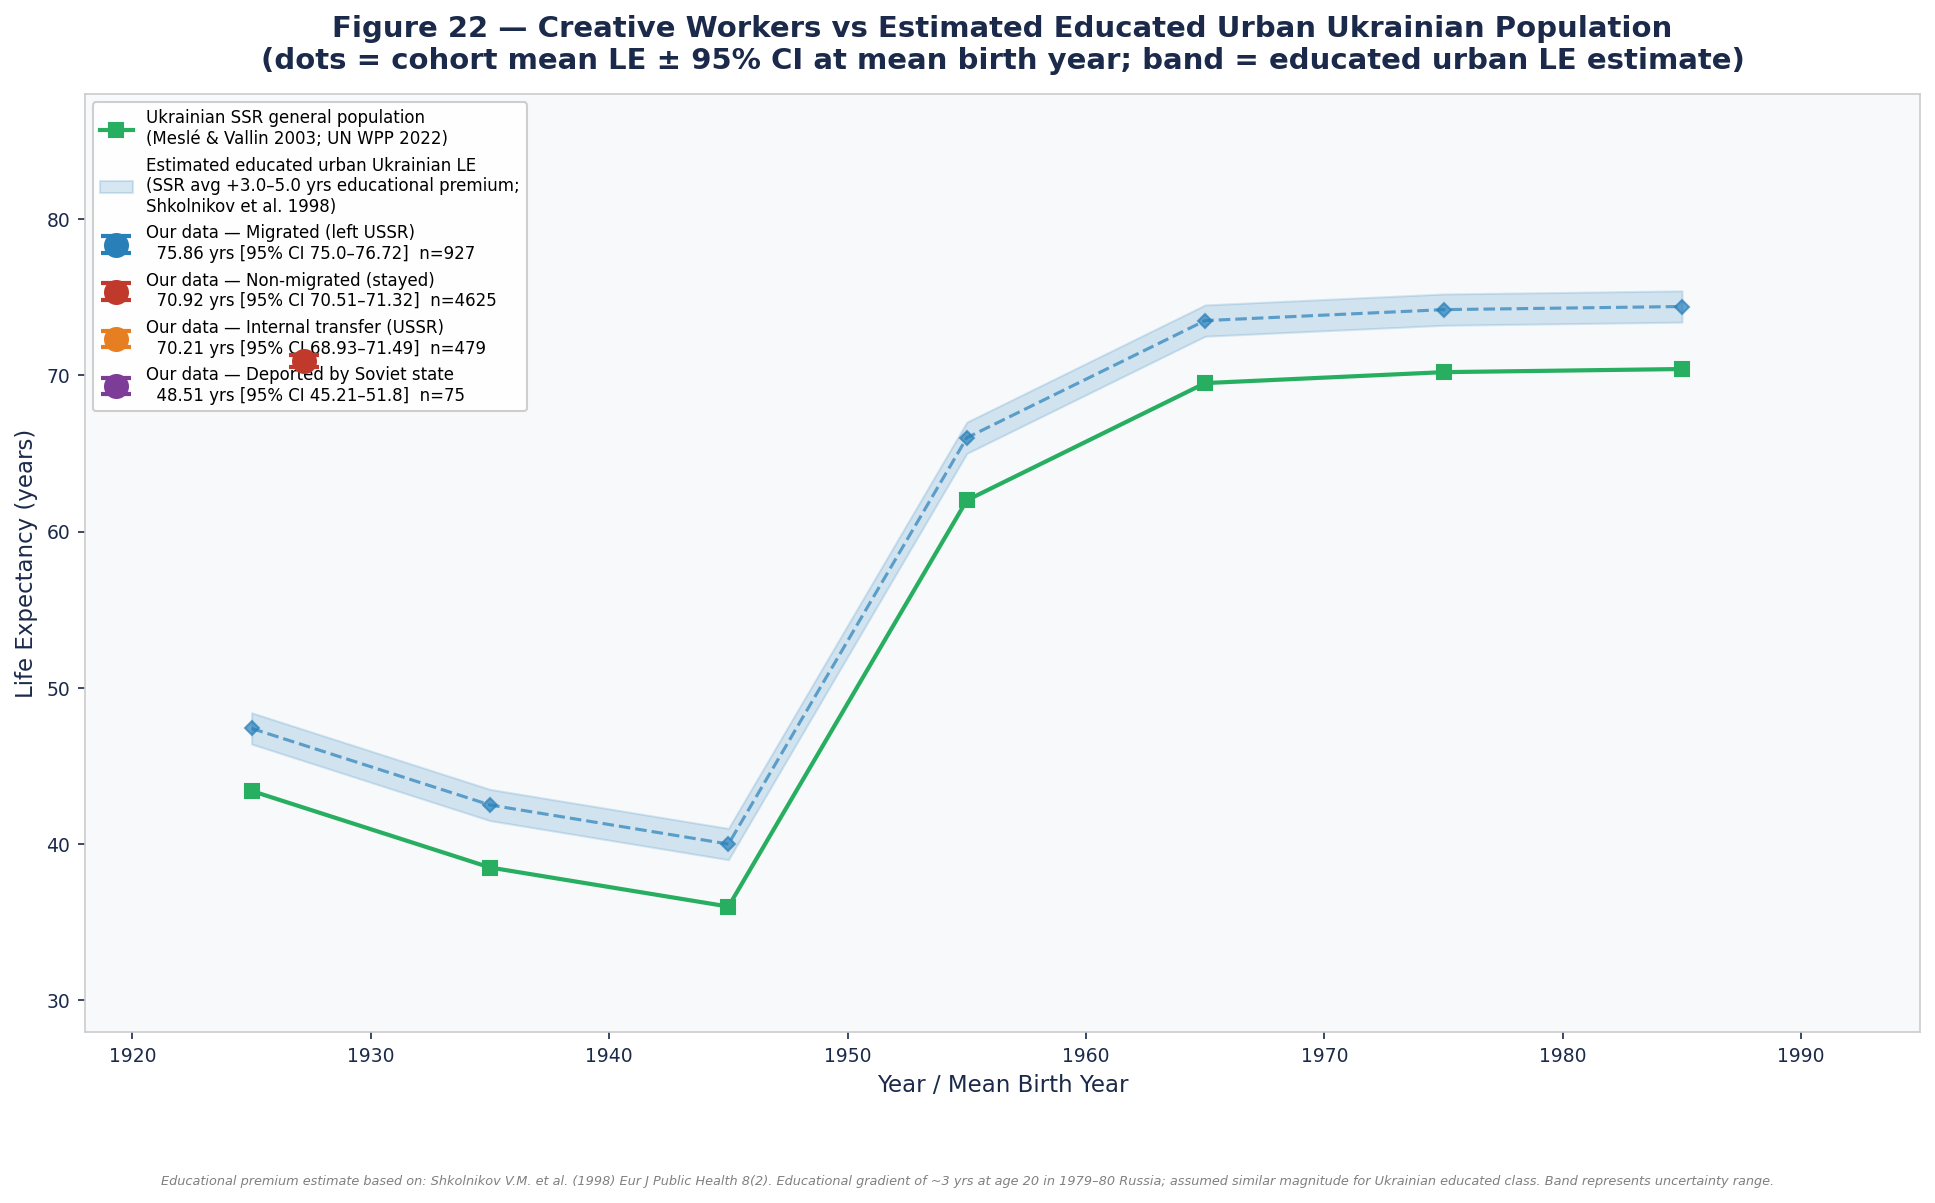
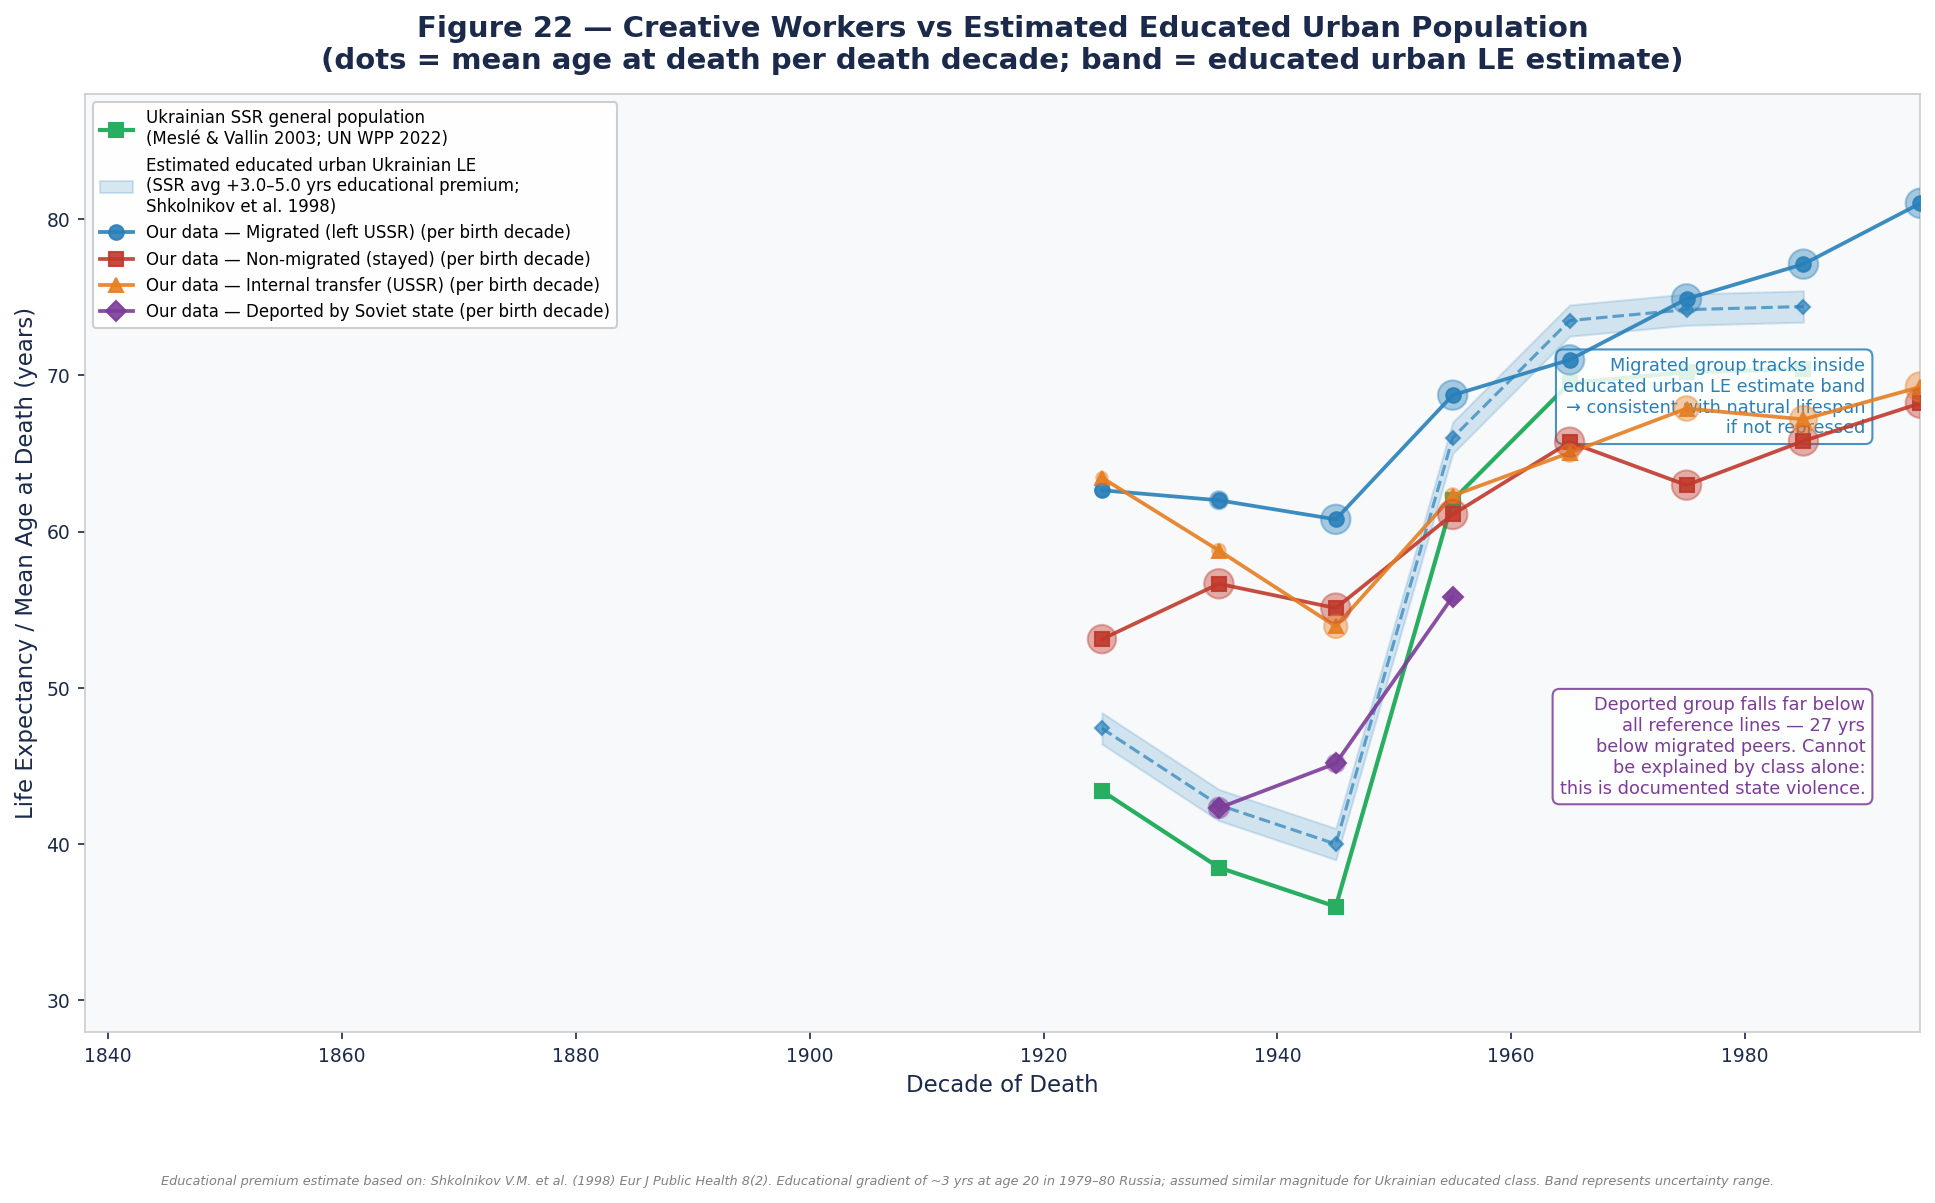
Fix fig21/fig22: plot mean age at death per death decade, not single dots
Replaced single overall-mean dots with decade-by-decade series:
  - X axis: decade of death (1920s–1990s) — period data, directly
    comparable to SSR reference population lines on same x-axis
  - Each dot = mean age at death for group members dying in that decade
  - Line connects decades, dot size proportional to n in that decade
  - Min 5 deaths per decade to show a point

This is scientifically correct: SSR general population LE is period data,
so our comparison data must also be period (by death year), not cohort
(by birth year). Now both series are on the same temporal basis.

diff --git a/ukraine_v2/generate_analysis.py b/ukraine_v2/generate_analysis.py
@@ -1367,31 +1367,38 @@ for name, data in REPUBLIC_DATA.items():
     ax.plot(xs, ys, marker=marker, linestyle=ls, linewidth=lw,
             color=REP_COLOURS[name], markersize=7, label=name, alpha=0.85)
 
-# Our creative worker groups as single data points with 95% CI error bars.
-# Positioned at each group's mean birth year — the scientifically correct
-# x-position because LE is a cohort property tied to when people were born,
-# not a period value valid at every year.
-for ms in ['migrated', 'non_migrated', 'deported']:
-    d = descs[ms]
-    if not d['mean']:
-        continue
-    x_pos = d.get('mean_by', 1920)   # mean birth year of the group
-    yerr  = [[d['mean'] - d['ci95_lo']], [d['ci95_hi'] - d['mean']]]
-    ax.errorbar(x_pos, d['mean'], yerr=yerr,
-                fmt='o', color=COLOUR[ms], markersize=11,
-                capsize=7, capthick=2, elinewidth=2,
-                label=f"Our data — {GROUP_LABELS[ms]}\n"
-                      f"  mean LE = {d['mean']} yrs  [95% CI {d['ci95_lo']}–{d['ci95_hi']}]\n"
-                      f"  n={d['n']}, mean birth yr ≈ {int(x_pos)}",
-                zorder=10)
+# Our creative worker groups — mean age at death per DEATH decade.
+# Each dot = mean age at death for people in this group who died in that decade.
+# This is period data, directly comparable to the SSR LE reference lines.
+# Minimum 5 deaths per decade required to plot a point.
+DEATH_DECADES_21 = list(range(1920, 1995, 10))
+MIN_N = 5
 
-ax.set_xlim(1918, 1998)
+for ms in ['migrated', 'non_migrated', 'deported']:
+    xs_dec, ys_dec, ns_dec = [], [], []
+    for dec in DEATH_DECADES_21:
+        v = [r['_le'] for r in groups[ms]
+             if r['_dy'] and dec <= r['_dy'] < dec + 10 and r['_le'] is not None]
+        if len(v) >= MIN_N:
+            xs_dec.append(dec + 5)   # plot at decade midpoint
+            ys_dec.append(statistics.mean(v))
+            ns_dec.append(len(v))
+
+    if not xs_dec:
+        continue
+
+    ax.plot(xs_dec, ys_dec, 'o-', color=COLOUR[ms], markersize=7,
+            linewidth=1.8, alpha=0.9, zorder=10,
+            label=f"Our data — {GROUP_LABELS[ms]}\n(mean age at death per decade, n≥{MIN_N})")
+    sizes = [max(30, min(200, n * 4)) for n in ns_dec]
+    ax.scatter(xs_dec, ys_dec, s=sizes, color=COLOUR[ms], zorder=11, alpha=0.45)
+
+ax.set_xlim(1838, 1998)
 ax.set_ylim(28, 84)
 apply_style(ax,
     'Figure 21 — Soviet Republic General Population LE vs Ukrainian Creative Workers\n'
-    '(lines = general population period LE by decade; dots = cohort mean LE ± 95% CI\n'
-    ' positioned at each group\'s mean birth year)',
-    xlabel='Year / Mean Birth Year', ylabel='Life Expectancy (years)')
+    '(lines = general population period LE; dots = mean age at death per death decade)',
+    xlabel='Decade', ylabel='Life Expectancy / Mean Age at Death (years)')
 ax.legend(fontsize=7.5, loc='upper left', ncol=2,
           framealpha=0.9, edgecolor='#cccccc')
 
@@ -1452,47 +1459,55 @@ ax.fill_between(edu_xs, edu_lo, edu_hi, alpha=0.18, color='#2980B9',
 ax.plot(edu_xs, [(lo + hi) / 2 for lo, hi in zip(edu_lo, edu_hi)],
         'D--', color='#2980B9', linewidth=1.5, markersize=5, alpha=0.7)
 
-# Our creative worker groups as single data points with 95% CI error bars.
-# Positioned at mean birth year of each group — correct because cohort LE
-# belongs to the birth cohort, not to a calendar year.
-for ms in ALL_GROUPS:
-    d = descs[ms]
-    if not d['mean'] or not d['ci95_lo']:
-        continue
-    x_pos = d.get('mean_by', 1920)
-    yerr  = [[d['mean'] - d['ci95_lo']], [d['ci95_hi'] - d['mean']]]
-    ax.errorbar(x_pos, d['mean'], yerr=yerr,
-                fmt='o', color=COLOUR[ms], markersize=11,
-                capsize=7, capthick=2, elinewidth=2, zorder=10,
-                label=f"Our data — {GROUP_LABELS[ms]}\n"
-                      f"  {d['mean']} yrs [95% CI {d['ci95_lo']}–{d['ci95_hi']}]  n={d['n']}")
+# Our creative worker groups — mean age at death per DEATH decade.
+# Directly comparable to the SSR LE reference lines and educated urban band.
+# Min 5 deaths per decade required to show a point.
+DEATH_DECADES_22 = list(range(1920, 1995, 10))
 
-ax.set_xlim(1918, 1995)
+for ms in ALL_GROUPS:
+    xs_dec, ys_dec, ns_dec = [], [], []
+    for dec in DEATH_DECADES_22:
+        v = [r['_le'] for r in groups[ms]
+             if r['_dy'] and dec <= r['_dy'] < dec + 10 and r['_le'] is not None]
+        if len(v) >= MIN_N:
+            xs_dec.append(dec + 5)
+            ys_dec.append(statistics.mean(v))
+            ns_dec.append(len(v))
+
+    if not xs_dec:
+        continue
+
+    marker = {'migrated': 'o', 'non_migrated': 's',
+              'internal_transfer': '^', 'deported': 'D'}.get(ms, 'o')
+    ax.plot(xs_dec, ys_dec, marker=marker, linestyle='-',
+            color=COLOUR[ms], markersize=7, linewidth=1.8, alpha=0.9, zorder=10,
+            label=f"Our data — {GROUP_LABELS[ms]} (per birth decade)")
+    sizes = [max(30, min(200, n * 3)) for n in ns_dec]
+    ax.scatter(xs_dec, ys_dec, s=sizes, color=COLOUR[ms], alpha=0.4, zorder=11)
+
+ax.set_xlim(1838, 1995)
 ax.set_ylim(28, 88)
 apply_style(ax,
-    'Figure 22 — Creative Workers vs Estimated Educated Urban Ukrainian Population\n'
-    '(dots = cohort mean LE ± 95% CI at mean birth year; band = educated urban LE estimate)',
-    xlabel='Year / Mean Birth Year', ylabel='Life Expectancy (years)')
+    'Figure 22 — Creative Workers vs Estimated Educated Urban Population\n'
+    '(dots = mean age at death per death decade; band = educated urban LE estimate)',
+    xlabel='Decade of Death', ylabel='Life Expectancy / Mean Age at Death (years)')
 
 ax.legend(fontsize=8, loc='upper left', framealpha=0.95, edgecolor='#cccccc')
 
-# Annotation: key insight — point to the actual data points
-mig_by = descs['migrated'].get('mean_by', 1900)
-dep_by = descs['deported'].get('mean_by', 1900)
+# Key insight annotations — placed in chart space, not tied to single points
+ax.text(0.97, 0.72,
+    'Migrated group tracks inside\neducated urban LE estimate band\n→ consistent with natural lifespan\n   if not repressed',
+    transform=ax.transAxes, ha='right', va='top', fontsize=8.5,
+    color=COLOUR['migrated'],
+    bbox=dict(boxstyle='round,pad=0.4', facecolor='white', alpha=0.85,
+              edgecolor=COLOUR['migrated'], linewidth=1))
 
-ax.annotate(
-    'Migrated group sits inside\neducated urban LE estimate band —\nconsistent with "natural lifespan\nif not repressed"',
-    xy=(mig_by, descs['migrated']['mean']),
-    xytext=(mig_by - 20, descs['migrated']['mean'] + 8),
-    fontsize=8, color=COLOUR['migrated'],
-    arrowprops=dict(arrowstyle='->', color=COLOUR['migrated'], lw=1.2))
-
-ax.annotate(
-    'Deported group: 27 yrs below migrated.\nCannot be explained by education\nor class — this is state violence.',
-    xy=(dep_by, descs['deported']['mean']),
-    xytext=(dep_by + 12, descs['deported']['mean'] - 10),
-    fontsize=8, color=COLOUR['deported'],
-    arrowprops=dict(arrowstyle='->', color=COLOUR['deported'], lw=1.2))
+ax.text(0.97, 0.25,
+    'Deported group falls far below\nall reference lines — 27 yrs\nbelow migrated peers. Cannot\nbe explained by class alone:\nthis is documented state violence.',
+    transform=ax.transAxes, ha='right', va='bottom', fontsize=8.5,
+    color=COLOUR['deported'],
+    bbox=dict(boxstyle='round,pad=0.4', facecolor='white', alpha=0.85,
+              edgecolor=COLOUR['deported'], linewidth=1))
 
 fig.text(0.5, 0.005,
     "Educational premium estimate based on: Shkolnikov V.M. et al. (1998) "
